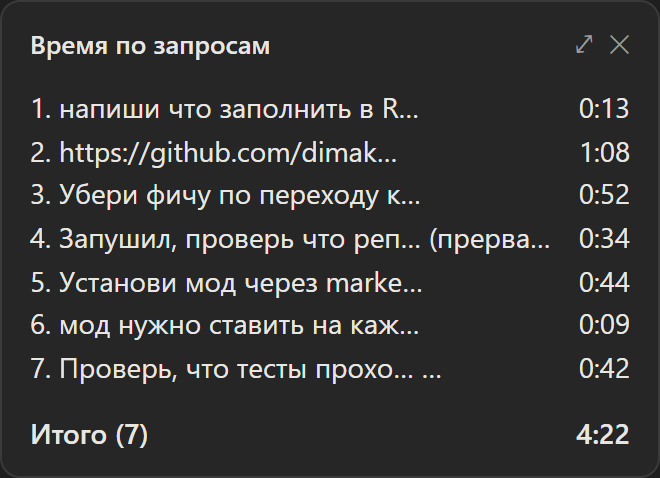
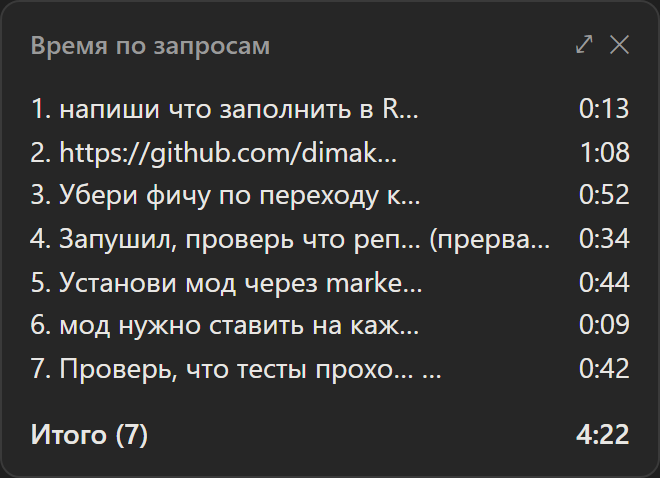
Add English screenshots to the English README section

Changed region(s): [[0.0303, 0.0586, 0.4242, 0.1172]]

diff --git a/README.md b/README.md
@@ -69,17 +69,17 @@ MIT
 
 A [Claude Code](https://claude.com/claude-code) mod that shows how much time Claude spent on each request and on the whole session.
 
-![Band above the prompt with a live timer and the history pane](docs/screenshots/mock-running.png)
+![Band above the prompt with a live timer and the history pane](docs/screenshots/mock-running-en.png)
 
-- **Band above the prompt** — a live timer while a turn runs (`⏱ Идёт: 0:42 · Сессия: 4:22 · запросов: 7`), the last turn's time when idle.
-- **History pane** (`/time` or the **История** button) — every request of the session with its duration and the total.
-- Interrupted turns are marked `(прервано)`, failed ones `(ошибка)`. `/clear` resets the history.
+- **Band above the prompt** — a live timer while a turn runs (`⏱ Running: 0:42 · Session: 4:22 · requests: 7`), the last turn's time when idle.
+- **History pane** (`/time` or the **History** button) — every request of the session with its duration and the total.
+- Interrupted turns are marked `(interrupted)`, failed ones `(error)`. `/clear` resets the history.
 
-Works in the terminal and in the Claude desktop app. The UI labels are in Russian.
+Works in the terminal and in the Claude desktop app. The mod's own labels are currently in Russian; the screenshots below are translated.
 
 | Idle | History pane |
 | --- | --- |
-| ![Band after a turn finished](docs/screenshots/mock-idle-band.png) | ![The history pane](docs/screenshots/mock-idle-pane.png) |
+| ![Band after a turn finished](docs/screenshots/mock-idle-en-band.png) | ![The history pane](docs/screenshots/mock-idle-en-pane.png) |
 
 ## Install
 
